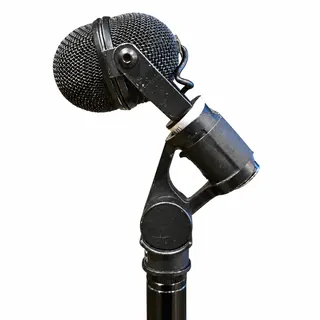
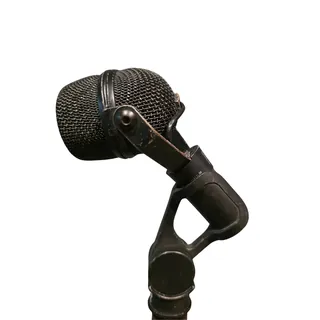
Reuse the N/D308 photo for the N/D408
The two shots were of the same N/DYM housing in the same clip and were
indistinguishable once cropped square, so the 308 frame now serves both
via ALIASES in scripts/build-photos.py. The N/D408 webps are byte-identical
to the 308's at both sizes; data/photos.js is unchanged.

Two things this needed beyond the swap:

Grouped the pair in quiz.js's CONFUSABLE_GROUPS. The "Identify the mic"
question draws distractors through conflictsWith, so without the group it
could show this one photo and offer both names as answers to it.

Taught the main pass to ignore a master whose id is aliased. Unlike the
B&K pair, the N/D408 has a master of its own in the source folder; encoding
it stamped a fresh mtime, and the alias pass's up-to-date check then skipped
the overwrite, so the alias would have silently never applied on a full
rebuild. It is now reported and skipped instead.

CACHE_VERSION restamped because js/quiz.js is precached.

Changed region(s): [[0.1562, 0.0312, 0.8125, 1.0]]

diff --git a/js/quiz.js b/js/quiz.js
@@ -189,6 +189,10 @@ const CONFUSABLE_GROUPS = [
   // Blue's yoke-mounted rectangles — same silhouette, same round mesh head,
   // and colour is the only tell, which a grey-ish thumbnail can lose.
   ["blue-cactus", "blue-blueberry"],
+  // Same N/DYM housing in the same clip. These two share one photo outright
+  // (see ALIASES in scripts/build-photos.py), so grouping them is not a
+  // nicety — without it the quiz can show that photo against both names.
+  ["ev-nd308", "ev-nd408"],
 ];
 
 // id -> Set of the ids it must never share a question with. Built once at

diff --git a/sw.js b/sw.js
@@ -8,7 +8,7 @@
 // CACHE_VERSION is stamped by scripts/stamp-cache-version.mjs — it's a hash
 // of every file listed below, so it changes exactly when they do. Don't edit
 // it by hand; run the script (see README's "PWA" section).
-const CACHE_VERSION = "97280f08c636";
+const CACHE_VERSION = "8c8e9c120f56";
 const CACHE_NAME = `micle-${CACHE_VERSION}`;
 
 // Photos live in their own cache, deliberately NOT stamped with

diff --git a/scripts/build-photos.py b/scripts/build-photos.py
@@ -20,7 +20,9 @@ Why Python rather than a .mjs like the other build scripts: this needs an
 image library, and the project deliberately has no package.json. Pillow is
 already a dependency of scripts/parse_inventory.py's openpyxl toolchain.
 
-Two mics have no master of their own and reuse another's — see ALIASES.
+Some mics deliberately share another's photo — see ALIASES. An alias wins
+even when a master of its own is sitting in the source folder; that master is
+reported and ignored, never encoded.
 
 A file whose name doesn't match a mic id in data/mics.js is REPORTED AND
 SKIPPED, never fuzzy-matched. Fuzzy matching is exactly what let two misnamed
@@ -50,16 +52,21 @@ SOURCE_EXTS = {".png", ".jpg", ".jpeg", ".webp"}
 # Mics whose photo is deliberately another mic's file. The B&K 4011 and 4007
 # are the DPA ones — DPA was spun out of Brüel & Kjær's microphone division
 # and the bodies are identical — so the pair is shot once and reused instead
-# of photographed twice.
+# of photographed twice. The EV N/D408 is the N/D308's housing in the same
+# clip; the two shots were indistinguishable once cropped square, so the 308
+# frame serves both.
 #
 # An explicit map rather than a duplicated master in the source folder: a
 # copy in the shared Drive is one re-download away from being renamed or
 # dropped, and the alias would then vanish from the manifest with nothing to
-# say it ever existed. Both pairs are already in quiz.js's CONFUSABLE_GROUPS,
-# so a shared photo can never be offered against itself.
+# say it ever existed. Every pair here is also in quiz.js's CONFUSABLE_GROUPS,
+# so a shared photo can never be offered against itself — add the group there
+# before adding an alias here, or the quiz can ask a question whose photo
+# matches two of its own options.
 ALIASES = {
     "bk-4011": "dpa-4011",
     "bk-4007": "dpa-4007",
+    "ev-nd408": "ev-nd308",
 }
 
 
@@ -118,6 +125,12 @@ def main():
         mic_id = path.stem
         if mic_id not in ids:
             unmatched.append(path.name)
+            continue
+        if mic_id in ALIASES:
+            # Encoding it would stamp a fresh mtime on the output, and the
+            # alias pass below would then skip it as already up to date — so
+            # the alias would silently never apply. Say so and move on.
+            print(f"  ! {path.name} is aliased to {ALIASES[mic_id]} — master ignored")
             continue
         sources[mic_id] = path
         emit(mic_id, path)
